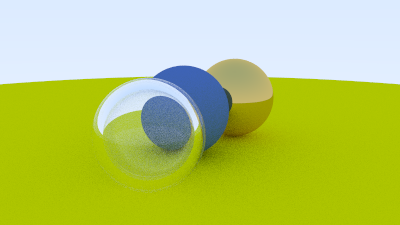
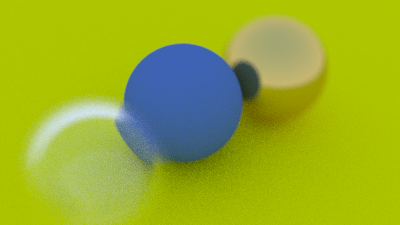
实现景深效果

diff --git a/camera.h b/camera.h
@@ -21,10 +21,15 @@ public:
     int samples_per_pixel = 10; // Count of random samples for each pixel
     int max_depth = 10;         // Maximum number of ray bounces into scene
 
+    // 镜头设置参数
     double vfov = 90;           // Vertical view angle (filed of view) 垂直可视角度
     point3 lookfrom = point3(0, 0, 0);    // Point camera is looking from
     point3 lookat = point3(0, 0, -1);     // Point camera is looking at
     vec3 vup = vec3(0, 1, 0);             // Camera-relative "up" direction
+
+    // 景深效果参数
+    double defocus_angle = 0;   // Variant angle of rays through each pixel. 0 表示不启用景深效果
+    double focus_dist = 10;     // Distance from camera lookfrom point to plane of perfect focus
 
     void render(const hittable &world, const char *file_name) {
         initialize();
@@ -42,7 +47,6 @@ public:
                 }
 
                 int rgb[3];
-
                 write_color(rgb, pixel_samples_scale * pixel_color);
                 data[j * image_width * 3 + 3 * i] = rgb[0];
                 data[j * image_width * 3 + 3 * i + 1] = rgb[1];
@@ -62,6 +66,8 @@ private:
     vec3 pixel_delta_u; // Offset to pixel to the right
     vec3 pixel_delta_v; // Offset to pixel below
     vec3 u, v, w;       // Camera frame basis vectors
+    vec3 defocus_disk_u;// Defocus disk horizontal radius
+    vec3 defocus_disk_v;// Defocus disk vertical radius
 
     void initialize() {
         image_height = int(image_width / aspect_ratio);
@@ -72,10 +78,9 @@ private:
         center = lookfrom;
 
         // Determine viewport dimensions.
-        auto focal_length = (lookfrom - lookat).length();
         auto theta = degrees_to_radians(vfov);
         auto h = tan(theta / 2);
-        auto viewport_height = 2 * h * focal_length; // 视窗高度，数值越大包含的画面范围越大
+        auto viewport_height = 2 * h * focus_dist; // 视窗高度，数值越大包含的画面范围越大
         auto viewport_width = viewport_height * (double(image_width) / image_height);
 
         // Calculate the u, v, w unit basis vectors for the camera coordinate frame.
@@ -92,19 +97,24 @@ private:
         pixel_delta_v = viewport_v / image_height;
 
         // Calculate the location of the upper left pixel.
-        auto viewport_upper_left = center - (focal_length * w) - viewport_u / 2 - viewport_v / 2;
+        auto viewport_upper_left = center - (focus_dist * w) - viewport_u / 2 - viewport_v / 2;
         pixel00_loc = viewport_upper_left + 0.5 * (pixel_delta_u + pixel_delta_v);
+
+        // Calculate the camera defocus disk basis vectors.
+        auto defocus_radius = focus_dist * tan(degrees_to_radians(defocus_angle / 2));
+        defocus_disk_u = u * defocus_radius;
+        defocus_disk_v = v * defocus_radius;
     }
 
     ray get_ray(int i, int j) const {
-        // Construct a camera ray originating from the origin and directed at randomly sampled
+        // Construct a camera ray originating from the defocus disk and directed at randomly sampled
         // point around the pixel, location i, j.
         auto offset = sample_square();
         auto pixel_sample = pixel00_loc
                             + ((i + offset.x()) * pixel_delta_u)
                             + ((j + offset.y()) * pixel_delta_v);
 
-        auto ray_origin = center;
+        auto ray_origin = (defocus_angle <= 0) ? center : defocus_disk_sample();
         auto ray_direction = pixel_sample - ray_origin;
         return ray(ray_origin, ray_direction);
     }
@@ -112,6 +122,12 @@ private:
     vec3 sample_square() const {
         // Returns the vector to a random point in the [-0.5, -0.5]-[+0.5, +0,5] unit square.
         return vec3(random_double() - 0.5, random_double() - 0.5, 0);
+    }
+
+    point3 defocus_disk_sample() const {
+        // Returns a random point in the camera defocus disk.
+        auto p = random_in_unit_disk();
+        return center + (p[0] * defocus_disk_u) + (p[1] * defocus_disk_v);
     }
 
     color ray_color(const ray &r, int depth, const hittable &world) const {

diff --git a/main.cpp b/main.cpp
@@ -1,5 +1,3 @@
-#include <time.h>
-
 #include "rt_constants.h"
 
 #include "camera.h"
@@ -42,9 +40,12 @@ int main() {
     cam.max_depth = 50;
 
     cam.vfov = 30;
-    cam.lookfrom = point3(-4, 1, 1);
+    cam.lookfrom = point3(-2, 2, 1);
     cam.lookat = point3(0, 0, -1);
     cam.vup = vec3(0, 1, 0);
+
+    cam.defocus_angle = 10.0;
+    cam.focus_dist = 3.4;
 
     // 渲染计时
     clock_t start, end;

diff --git a/vec3.h b/vec3.h
@@ -120,6 +120,14 @@ inline vec3 unit_vector(const vec3 &v) {
     return v / v.length();
 }
 
+inline vec3 random_in_unit_disk() {
+    while (true) {
+        auto p = vec3(random_double(-1, 1), random_double(-1, 1), 0);
+        if (p.length_squared() < 1)
+            return p;
+    }
+}
+
 inline vec3 random_in_unit_sphere() {
     while (true) {
         auto p = vec3::random(-1, 1);

diff --git a/rt_constants.h b/rt_constants.h
@@ -6,6 +6,7 @@
 #define RT_CONSTANTS_H
 
 #include <cmath>
+#include <ctime>
 #include <random>
 #include <iostream>
 #include <limits>
